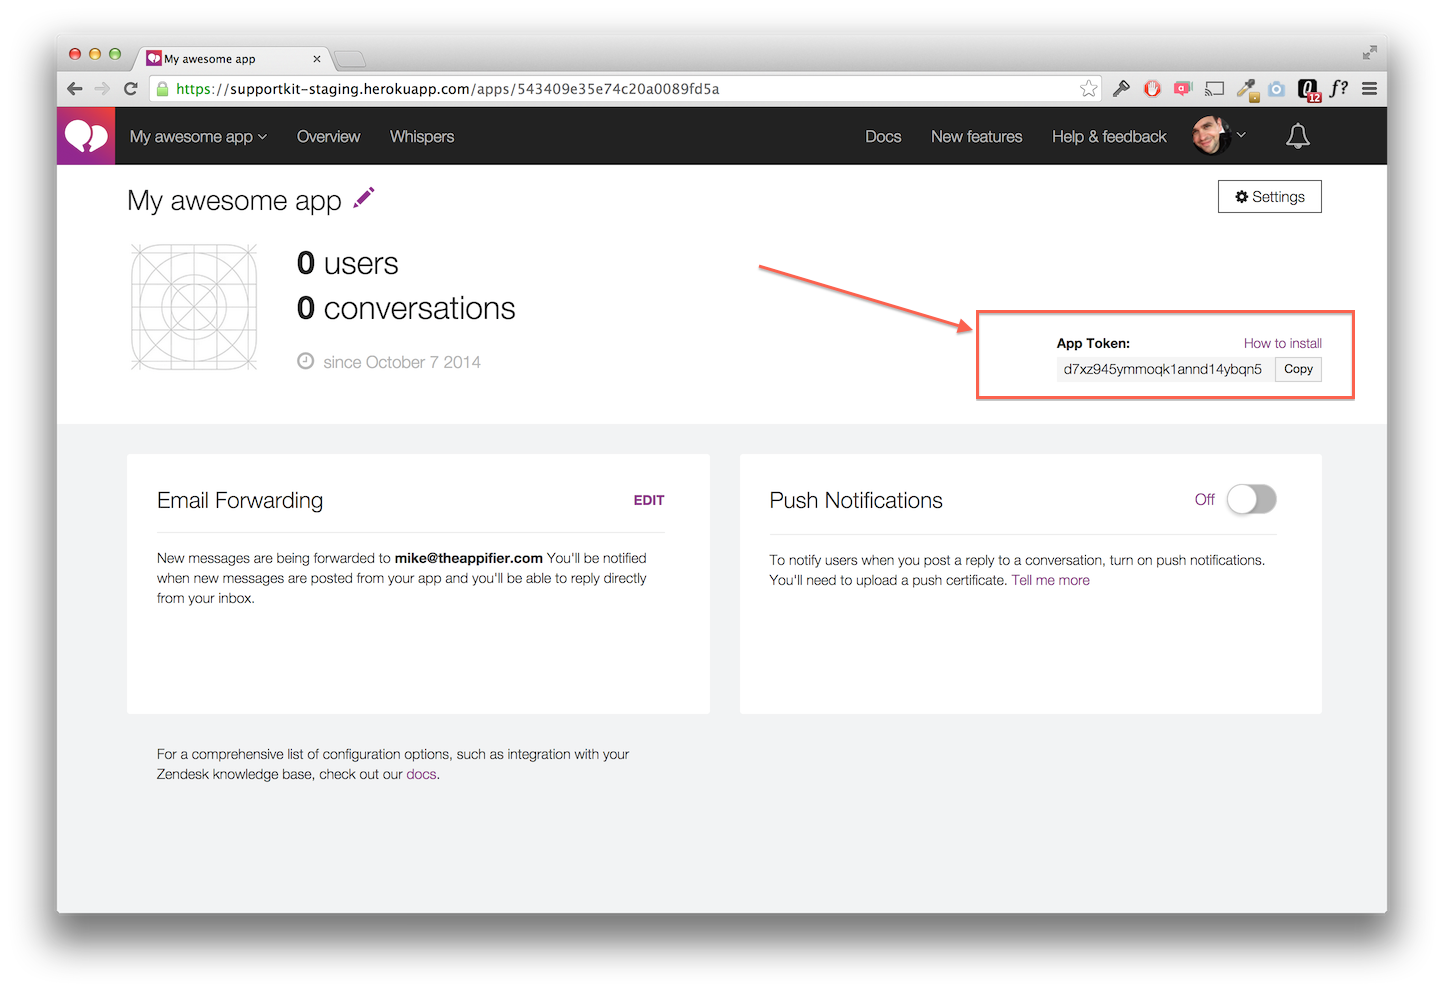
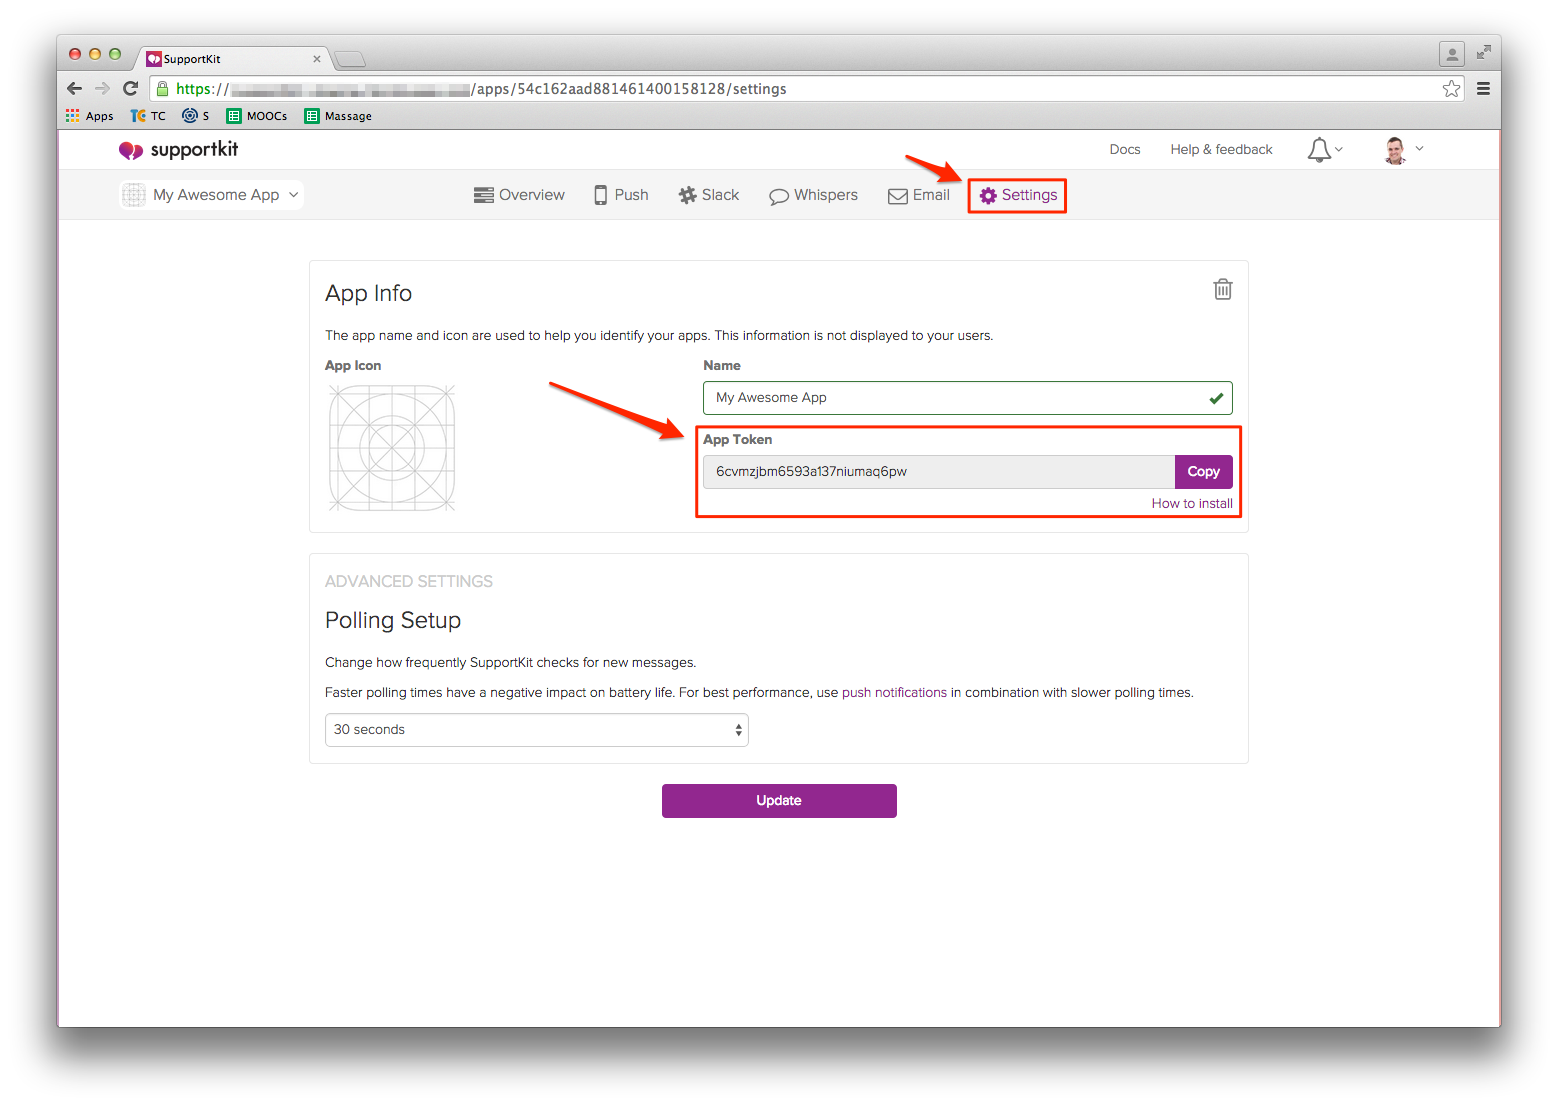
Updating API doc

diff --git a/stylesheets/screen.css b/stylesheets/screen.css
@@ -1,1 +1,1 @@
[2 lines of base64/hex data omitted]

diff --git a/index.html b/index.html
@@ -110,7 +110,7 @@ If you&rsquo;re writing an app using Swift, then you&rsquo;ll need to import thi
 
 <p>This token is free and uniquely identifies your app and links it to the SupportKit backend that does the heavy lifting necessary to bridge the gap between you and your users.</p>
 
-<p>You can find your token by <a href="https://app.supportkit.io">logging into SupportKit</a> and copying it from the overview page as shown below.</p>
+<p>You can find your token by <a href="https://app.supportkit.io">logging into SupportKit</a> and copying it from the settings page as shown below.</p>
 
 <p><img alt="App Token on Overview Page" src="images/apptoken.png" /></p>
 
@@ -135,13 +135,49 @@ If you&rsquo;re writing an app using Swift, then you&rsquo;ll need to import thi
 </code></pre>
 <pre><code class="highlight swift"><span class="kt">SupportKit</span><span class="o">.</span><span class="nf">show</span><span class="p">()</span>
 </code></pre>
+<h1 id='slack'>Slack</h1>
+<p>Slack is a new communication tool that combines the best things about chat, email and the web to group all of your team&rsquo;s conversations and workflow into one beautiful, searchable place.</p>
+
+<p>SupportKit has a revolutionary new Slack integration that allows your team to effortlessly speak to your app&rsquo;s users, without leaving Slack. Check out this video to see how it works:</p>
+
+<iframe style="margin-left:28px;" src="//player.vimeo.com/video/117524819?color=a02b8f&amp;byline=0&amp;portrait=0" width="500" height="281" frameborder="0" webkitallowfullscreen mozallowfullscreen allowfullscreen></iframe>
+<h2 id='configuring-slack'>Configuring Slack</h2><h3 id='step-1--quotauthorizifyquot-supportkit-so-that-it-can-talk-to-your-slack'>Step 1. &ldquo;Authorizify&rdquo; SupportKit so that it can talk to your Slack</h3><h3 id='step-2--set-up-a-new-quotslash-commandquot-so-that-you-can-send-messages-to-supportkit'>Step 2. Set up a new &ldquo;slash command&rdquo; so that you can send messages to SupportKit</h3>
+<p><img src="images/slashcmd.png" alt="Slash Command Setup"/></p>
+
+<p><aside class="notice">
+Make sure you remember to fill in the &ldquo;Token&rdquo; field of the form in Step 2 with the token that Slack&rsquo;s slash command setup page provides you.
+</aside></p>
+<h3 id='step-3--choose-a-quotdispatch-channelquot-to-receive-new-message-notifications-from-your-app39s-users'>Step 3. Choose a &ldquo;dispatch channel&rdquo; to receive new message notifications from your app&rsquo;s users</h3>
+<p>Once you&rsquo;ve completed these 3 steps, you&rsquo;re ready to start speaking to your users with Slack. For more information on how to do this, read the <a href="#slack-channel">conversations</a> section</p>
 <h1 id='conversations'>Conversations</h1>
-<p>SupportKit allows your users to have conversations with you through an interface that&rsquo;s as easy and intuitive as text messaging. The messages users send from your app arrive as a thread in your e-mail inbox so that you can manage them using your favourite web, desktop or mobile client. </p>
+<p>SupportKit allows your users to have conversations with you through an interface that&rsquo;s as easy and intuitive as text messaging. The messages users send from your app arrive to you either as a Slack message or as a thread in your e-mail inbox so that you can manage them using your favourite web, desktop or mobile client. If you choose to send messages to an e-mail inbox, you can send them to <a href="#connecting-to-your-crm">your favourite CRM as well</a></p>
 <h2 id='how-do-conversations-work'>How do conversations work?</h2>
 <p>When users access SupportKit by tapping on an element of your app&rsquo;s interface or using the two-finger gesture, they&rsquo;ll be presented with SupportKit&rsquo;s messaging interface.</p>
 
 <p><img src="images/messages.png" alt="Drawing" style="width: 50%;"/></p>
+<h3 id='slack-channel'>Slack Channel</h3>
+<p>Once your user types a message and hits send, SupportKit sends the message to Slack. If it&rsquo;s a new conversation, a notification will appear in the dispatch channel that you chose when you <a href="#configuring-slack">configured Slack</a>.</p>
 
+<p>This notification contains a link to a channel associated to the specific user that sent you the message. From this channel you can get more information on the user and reply to their questions.</p>
+
+<p>The messages you send in this channel are not automatically sent to your user. We do this so that you can invite teammates to read and collaborate on the user&rsquo;s issue, without exposing your internal conversation.</p>
+
+<p>When you&rsquo;re ready to send a message to the user, simply use SupportKit&rsquo;s slash command:</p>
+
+<blockquote>
+<p>/sk TYPE YOUR MESSAGE HERE</p>
+</blockquote>
+
+<p>This command will make SupportKit send your message directly to the app user. You&rsquo;ll get a notification in the channel confirming that the transmission was successful.</p>
+
+<p>If you want to consult any metadata you&rsquo;ve associated with the user in order to aid the help process, simply use the command below to instruct SupportKit to display the most up to date metadata on a user.</p>
+
+<blockquote>
+<p>/sk !profile</p>
+</blockquote>
+
+<p>To learn more about how to associate data to a user, read our <a href="#identifying-your-users">documentation on the subject</a>.</p>
+<h3 id='e-mail-channel'>E-Mail Channel</h3>
 <p>Once your user types a message and hits send, SupportKit transforms the message into an e-mail that makes its way to the e-mail address you specified when signing up for SupportKit. This e-mail contains the user&rsquo;s message as well as any metadata about the user that you&rsquo;ve captured in your app. </p>
 
 <p><img src="images/email_with_context.png" alt="Drawing" style="width: 80%;"/></p>
@@ -158,6 +194,12 @@ If you&rsquo;re writing an app using Swift, then you&rsquo;ll need to import thi
 </code></pre>
 <pre><code class="highlight swift"><span class="kt">SKTUser</span><span class="o">.</span><span class="nf">currentUser</span><span class="p">()</span><span class="o">.</span><span class="n">firstName</span> <span class="o">=</span> <span class="s">"Doctor"</span>
 <span class="kt">SKTUser</span><span class="o">.</span><span class="nf">currentUser</span><span class="p">()</span><span class="o">.</span><span class="n">lastName</span> <span class="o">=</span> <span class="s">"Who"</span>
+</code></pre>
+<h3 id='getting-the-avatar-of-the-current-user'>Getting the avatar of the current user</h3>
+<p>Setting the user&rsquo;s e-mail lets you see their gravatar in the e-mail conversation. The user will not see their own gravatar in the chat.</p>
+<pre><code class="highlight objective_c"><span class="p">[</span><span class="n">SKTUser</span> <span class="nf">currentUser</span><span class="p">].</span><span class="n">email</span> <span class="o">=</span> <span class="s">@"bob@example.com"</span><span class="p">;</span>
+</code></pre>
+<pre><code class="highlight swift"><span class="kt">SKTUser</span><span class="o">.</span><span class="nf">currentUser</span><span class="p">()</span><span class="o">.</span><span class="n">email</span> <span class="o">=</span> <span class="s">"bob@example.com"</span>
 </code></pre>
 <h3 id='adding-any-other-kind-of-metadata'>Adding any other kind of metadata</h3>
 <p>The SKTUser class also allows you to add any other kind of metadata to the e-mail messages that are sent when users contact you. The <code class="prettyprint">addProperties:</code> method accepts an NSDictionary containing the metadata to add.</p>

diff --git a/api/Classes/SupportKit.html b/api/Classes/SupportKit.html
@@ -774,7 +774,7 @@ Passing nil will remove the current top recommendation.</p>
 				<div id="footer">
 					<hr />
 					<div class="footer-copyright">
-						<p><span class="copyright">&copy; 2014 Radialpoint. All rights reserved. (Last updated: 2014-12-22)</span><br />
+						<p><span class="copyright">&copy; 2015 Radialpoint. All rights reserved. (Last updated: 2015-01-22)</span><br />
 						
 						<span class="generator">Generated by <a href="http://appledoc.gentlebytes.com">appledoc 2.2 (build 963)</a>.</span></p>
 						

diff --git a/api/Classes/SKTConversation.html b/api/Classes/SKTConversation.html
@@ -299,7 +299,7 @@
 				<div id="footer">
 					<hr />
 					<div class="footer-copyright">
-						<p><span class="copyright">&copy; 2014 Radialpoint. All rights reserved. (Last updated: 2014-12-22)</span><br />
+						<p><span class="copyright">&copy; 2015 Radialpoint. All rights reserved. (Last updated: 2015-01-22)</span><br />
 						
 						<span class="generator">Generated by <a href="http://appledoc.gentlebytes.com">appledoc 2.2 (build 963)</a>.</span></p>
 						

diff --git a/api/Classes/SKTSettings.html b/api/Classes/SKTSettings.html
@@ -680,7 +680,7 @@
 				<div id="footer">
 					<hr />
 					<div class="footer-copyright">
-						<p><span class="copyright">&copy; 2014 Radialpoint. All rights reserved. (Last updated: 2014-12-22)</span><br />
+						<p><span class="copyright">&copy; 2015 Radialpoint. All rights reserved. (Last updated: 2015-01-22)</span><br />
 						
 						<span class="generator">Generated by <a href="http://appledoc.gentlebytes.com">appledoc 2.2 (build 963)</a>.</span></p>
 						

diff --git a/api/Classes/SKTUser.html b/api/Classes/SKTUser.html
@@ -426,7 +426,7 @@
 				<div id="footer">
 					<hr />
 					<div class="footer-copyright">
-						<p><span class="copyright">&copy; 2014 Radialpoint. All rights reserved. (Last updated: 2014-12-22)</span><br />
+						<p><span class="copyright">&copy; 2015 Radialpoint. All rights reserved. (Last updated: 2015-01-22)</span><br />
 						
 						<span class="generator">Generated by <a href="http://appledoc.gentlebytes.com">appledoc 2.2 (build 963)</a>.</span></p>
 						

diff --git a/api/Constants/SKTSearchResultsFilterMode.html b/api/Constants/SKTSearchResultsFilterMode.html
@@ -176,7 +176,7 @@
 				<div id="footer">
 					<hr />
 					<div class="footer-copyright">
-						<p><span class="copyright">&copy; 2014 Radialpoint. All rights reserved. (Last updated: 2014-12-22)</span><br />
+						<p><span class="copyright">&copy; 2015 Radialpoint. All rights reserved. (Last updated: 2015-01-22)</span><br />
 						
 						<span class="generator">Generated by <a href="http://appledoc.gentlebytes.com">appledoc 2.2 (build 963)</a>.</span></p>
 						

diff --git a/api/Protocols/SKTConversationDelegate.html b/api/Protocols/SKTConversationDelegate.html
@@ -229,7 +229,7 @@
 				<div id="footer">
 					<hr />
 					<div class="footer-copyright">
-						<p><span class="copyright">&copy; 2014 Radialpoint. All rights reserved. (Last updated: 2014-12-22)</span><br />
+						<p><span class="copyright">&copy; 2015 Radialpoint. All rights reserved. (Last updated: 2015-01-22)</span><br />
 						
 						<span class="generator">Generated by <a href="http://appledoc.gentlebytes.com">appledoc 2.2 (build 963)</a>.</span></p>
 						

diff --git a/api/index.html b/api/index.html
@@ -109,7 +109,7 @@
 				<div id="footer">
 					<hr />
 					<div class="footer-copyright">
-						<p><span class="copyright">&copy; 2014 Radialpoint. All rights reserved. (Last updated: 2014-12-22)</span><br />
+						<p><span class="copyright">&copy; 2015 Radialpoint. All rights reserved. (Last updated: 2015-01-22)</span><br />
 						
 						<span class="generator">Generated by <a href="http://appledoc.gentlebytes.com">appledoc 2.2 (build 963)</a>.</span></p>
 						

diff --git a/api/hierarchy.html b/api/hierarchy.html
@@ -84,7 +84,7 @@
 				<div id="footer">
 					<hr />
 					<div class="footer-copyright">
-						<p><span class="copyright">&copy; 2014 Radialpoint. All rights reserved. (Last updated: 2014-12-22)</span><br />
+						<p><span class="copyright">&copy; 2015 Radialpoint. All rights reserved. (Last updated: 2015-01-22)</span><br />
 						
 						<span class="generator">Generated by <a href="http://appledoc.gentlebytes.com">appledoc 2.2 (build 963)</a>.</span></p>
 						
